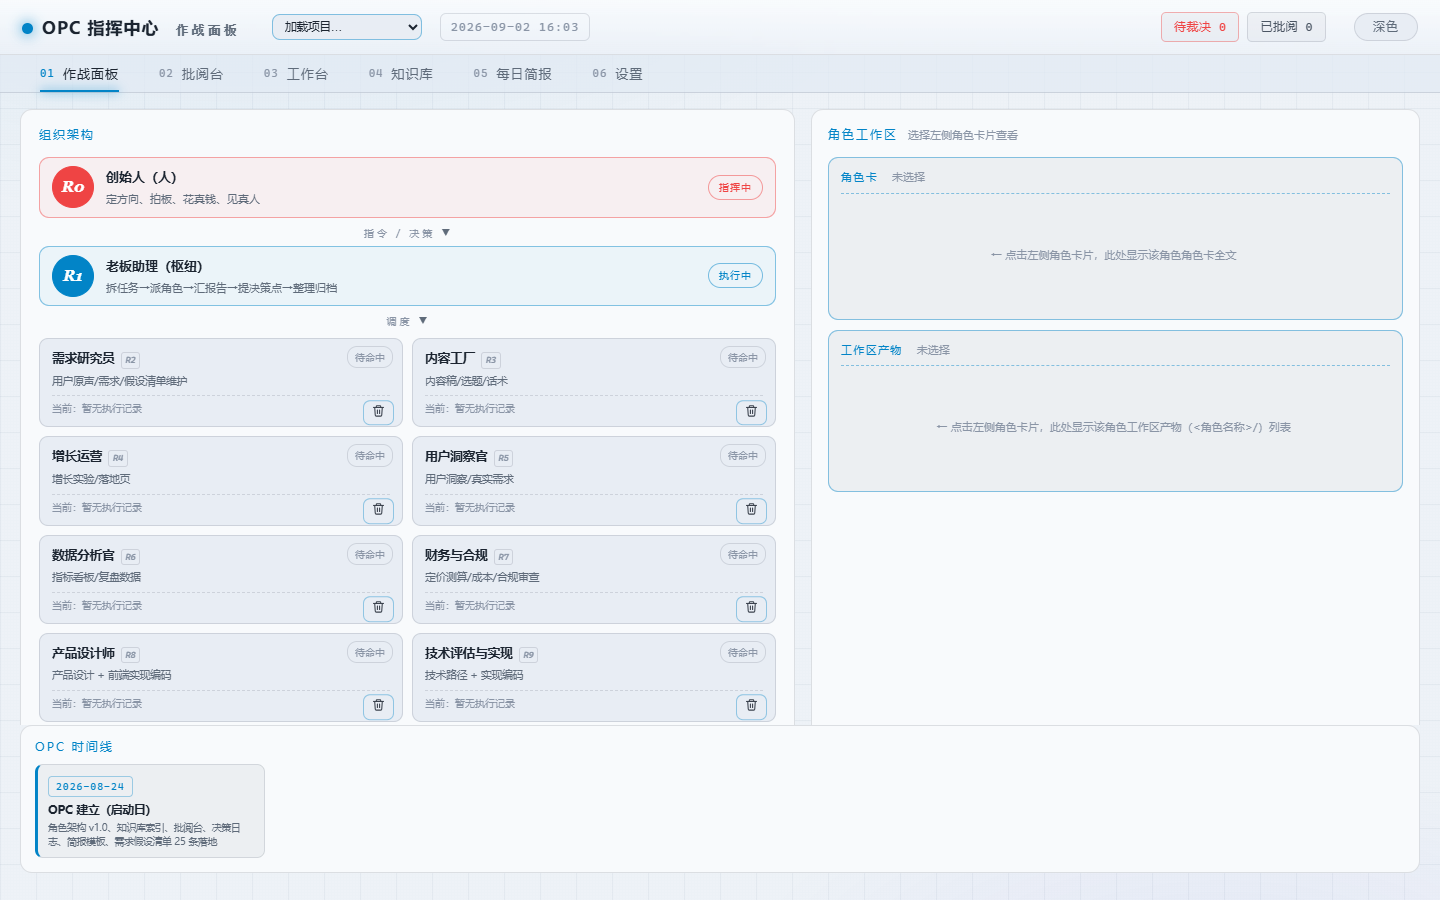
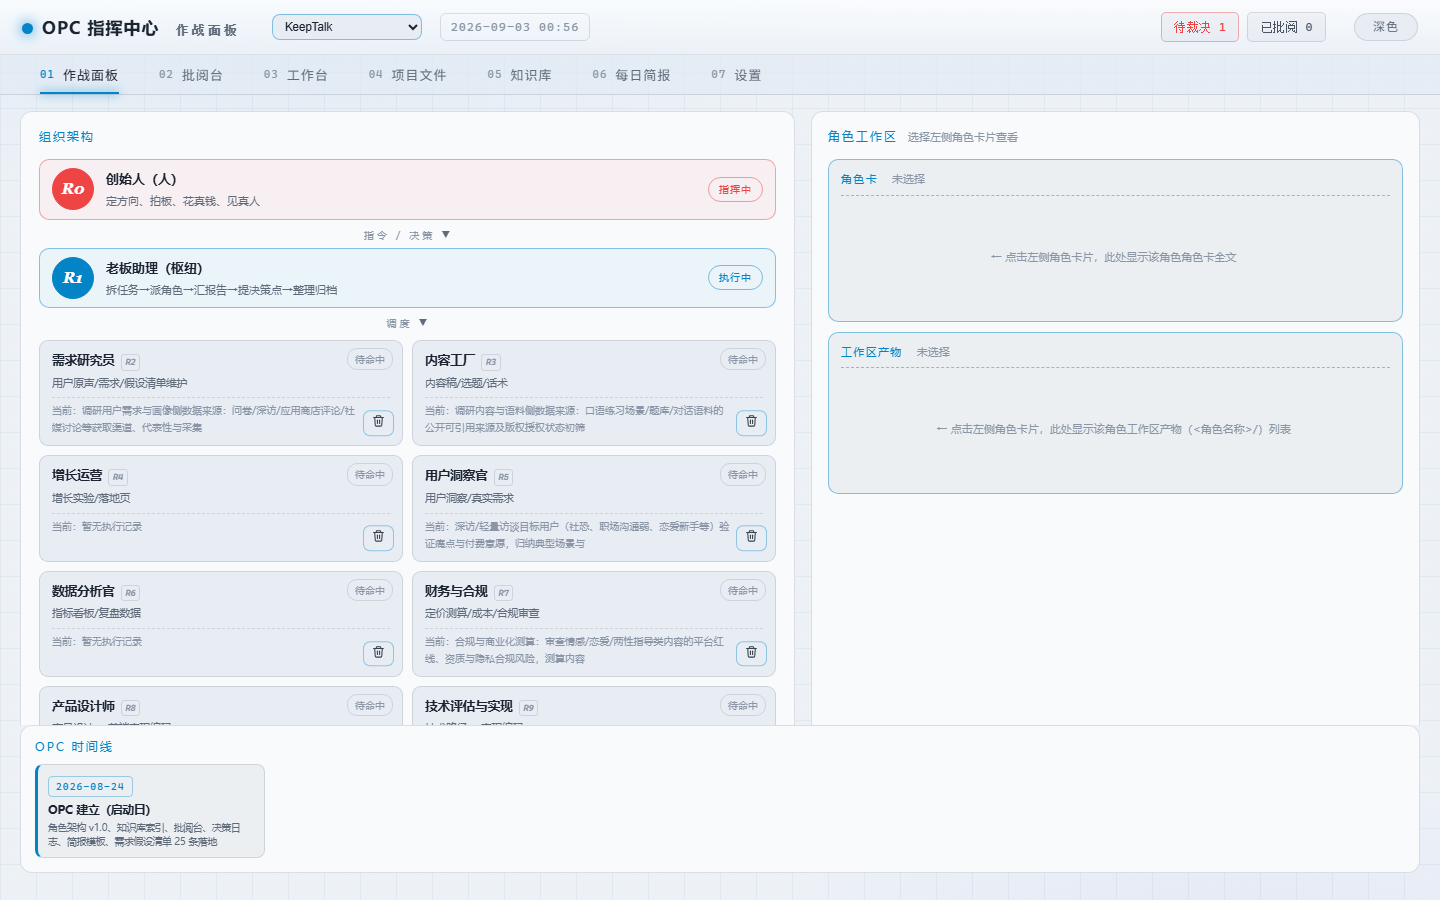
docs: 预览截图随当前界面重拍（7 视图 UI，去 emoji 后），新增图 4 项目文件产物浏览

diff --git a/README.md b/README.md
@@ -51,6 +51,12 @@ opc-web 就是这家公司的**指挥入口**——纯本地的 Web 控制台，
   <em>图 3：批阅台——左侧待裁决 / 例行工作文件，右侧展开决策项（项目整体进展 · 要拍板什么 · R1 建议），R0 以裁决签批准、驳回或修改。</em>
 </p>
 
+<p align="center">
+  <img src="images/opc-command-center-04.png" alt="项目文件：各角色工作区产物浏览" width="800">
+  <br>
+  <em>图 4：项目文件——左侧按 角色 / 任务 筛选各角色工作区产物，右侧 md 直接渲染、其他文本以 txt 预览；二进制 / 不可解码 / 超限文件不提供在线预览。</em>
+</p>
+
 ---
 
 ## 特性
